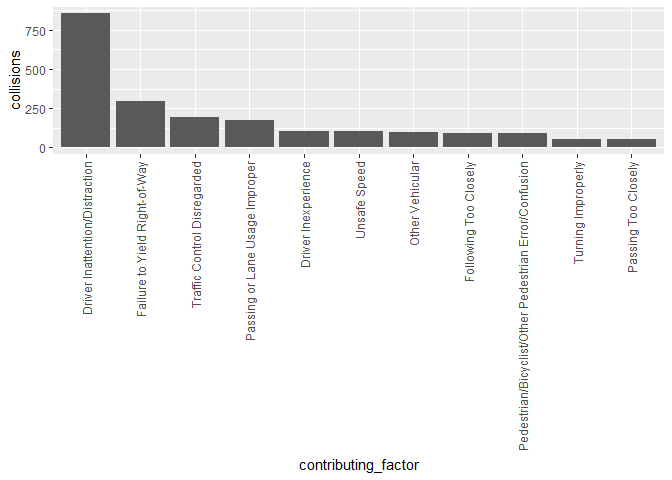
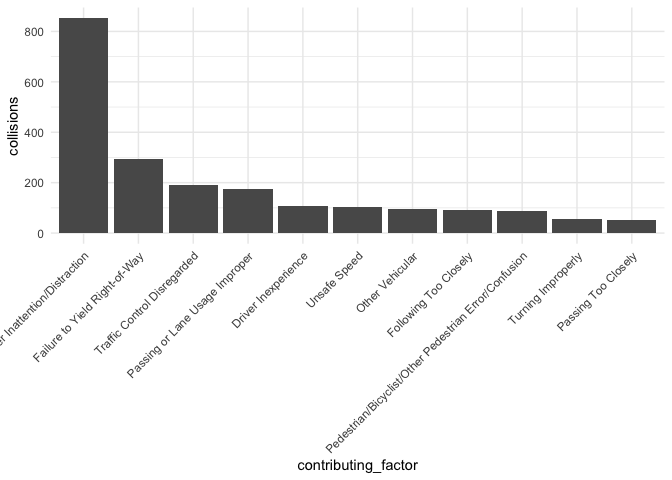
just commit to push

diff --git a/20201113_import_tidy.md b/20201113_import_tidy.md
@@ -63,16 +63,16 @@ fit_injuries_month
     ##    month term                   estimate std.error  p.value
     ##    <chr> <chr>                     <dbl>     <dbl>    <dbl>
     ##  1 Jan   (Intercept)             -1.34      0.0263 0.      
-    ##  2 Jan   2020 v. 2019             0.139     0.0203 7.33e-12
-    ##  3 Jan   Borough: BROOKLYN        0.0228    0.0296 4.41e- 1
-    ##  4 Jan   Borough: MANHATTAN      -0.496     0.0382 1.72e-38
-    ##  5 Jan   Borough: QUEENS         -0.0362    0.0302 2.31e- 1
-    ##  6 Jan   Borough: STATEN ISLAND   0.357     0.0517 4.88e-12
+    ##  2 Jan   2020 v. 2019             0.139     0.0203 7.94e-12
+    ##  3 Jan   Borough: BROOKLYN        0.0226    0.0296 4.45e- 1
+    ##  4 Jan   Borough: MANHATTAN      -0.495     0.0382 1.80e-38
+    ##  5 Jan   Borough: QUEENS         -0.0364    0.0302 2.28e- 1
+    ##  6 Jan   Borough: STATEN ISLAND   0.357     0.0517 4.90e-12
     ##  7 Feb   (Intercept)             -1.36      0.0275 0.      
-    ##  8 Feb   2020 v. 2019             0.163     0.0211 1.19e-14
+    ##  8 Feb   2020 v. 2019             0.163     0.0211 1.23e-14
     ##  9 Feb   Borough: BROOKLYN       -0.0302    0.0309 3.29e- 1
-    ## 10 Feb   Borough: MANHATTAN      -0.453     0.0386 8.28e-32
-    ## # ... with 62 more rows
+    ## 10 Feb   Borough: MANHATTAN      -0.452     0.0386 9.01e-32
+    ## # … with 62 more rows
 
 It seems like what this is looking at is the number of persons injured
 per crash, and seeing if there is a significant difference between years
@@ -125,7 +125,7 @@ crash_date_summ %>%
     y = "Number of Collisions"
     ) +
   theme(text = element_text(size = 15), 
-        axis.text.x = element_text(angle = 90, hjust=1, size=10)) +
+        axis.text.x = element_text(angle = 60, hjust=1, size=10)) +
   scale_colour_discrete("Year")
 ```
 
@@ -382,7 +382,7 @@ crash_factor %>%
   ) %>%
   ggplot(aes(x = contributing_factor, y = collisions)) +
   geom_bar(stat = "identity") +
-  theme(axis.text.x = element_text(angle = 90, vjust = 0.5, hjust = 1))
+  theme(axis.text.x = element_text(angle = 45, vjust = 1, hjust = 1))
 ```
 
 ![](20201113_import_tidy_files/figure-gfm/unnamed-chunk-2-1.png)<!-- -->
